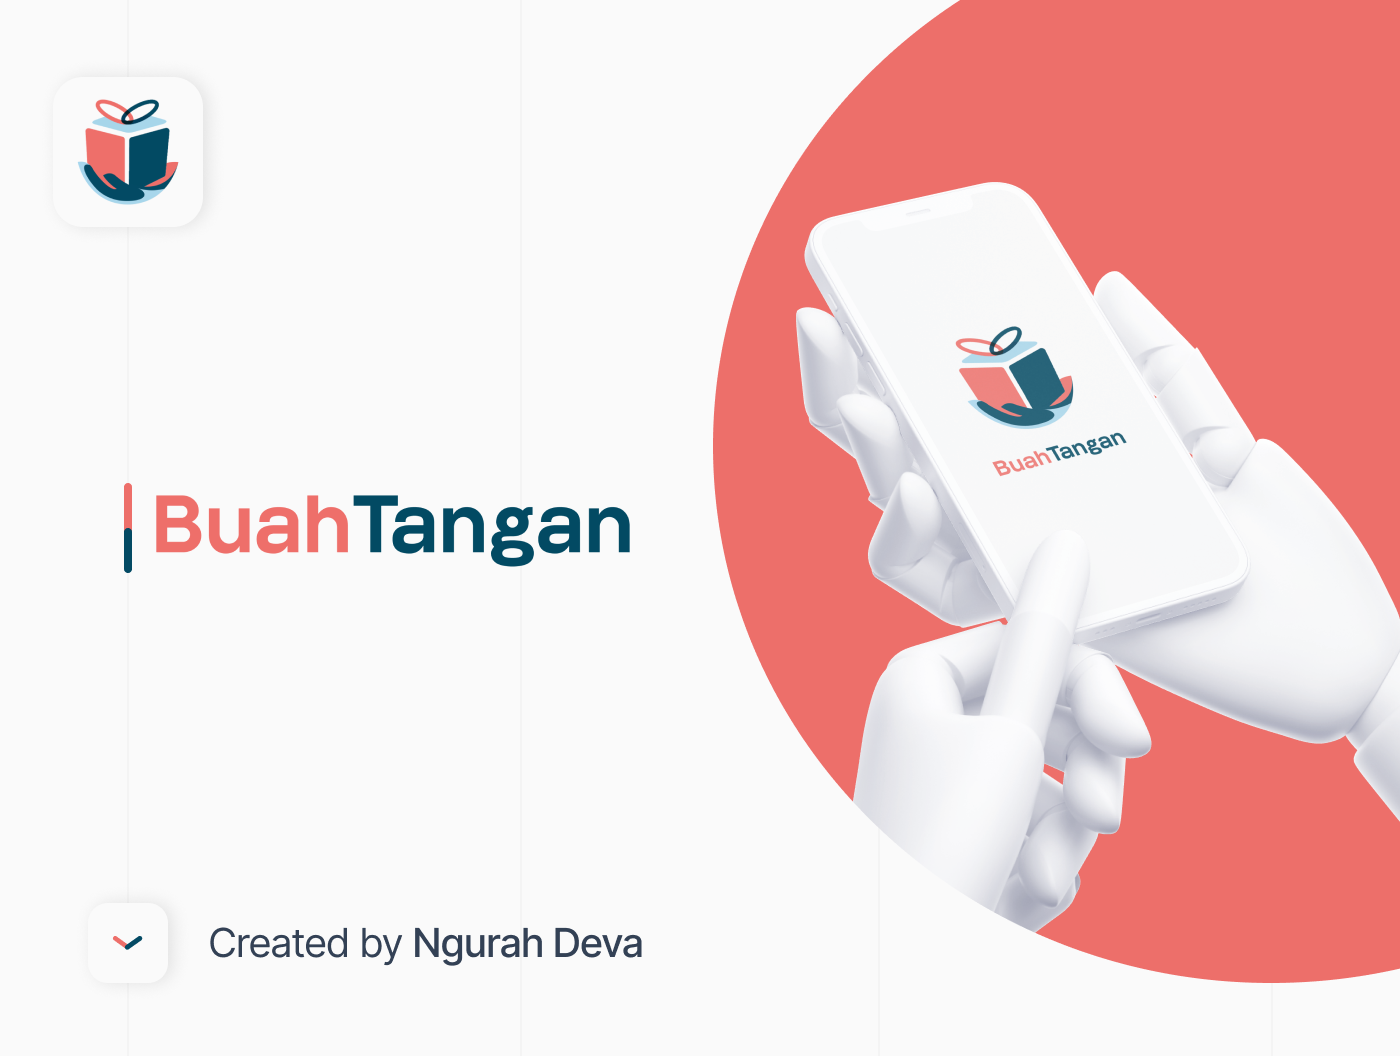
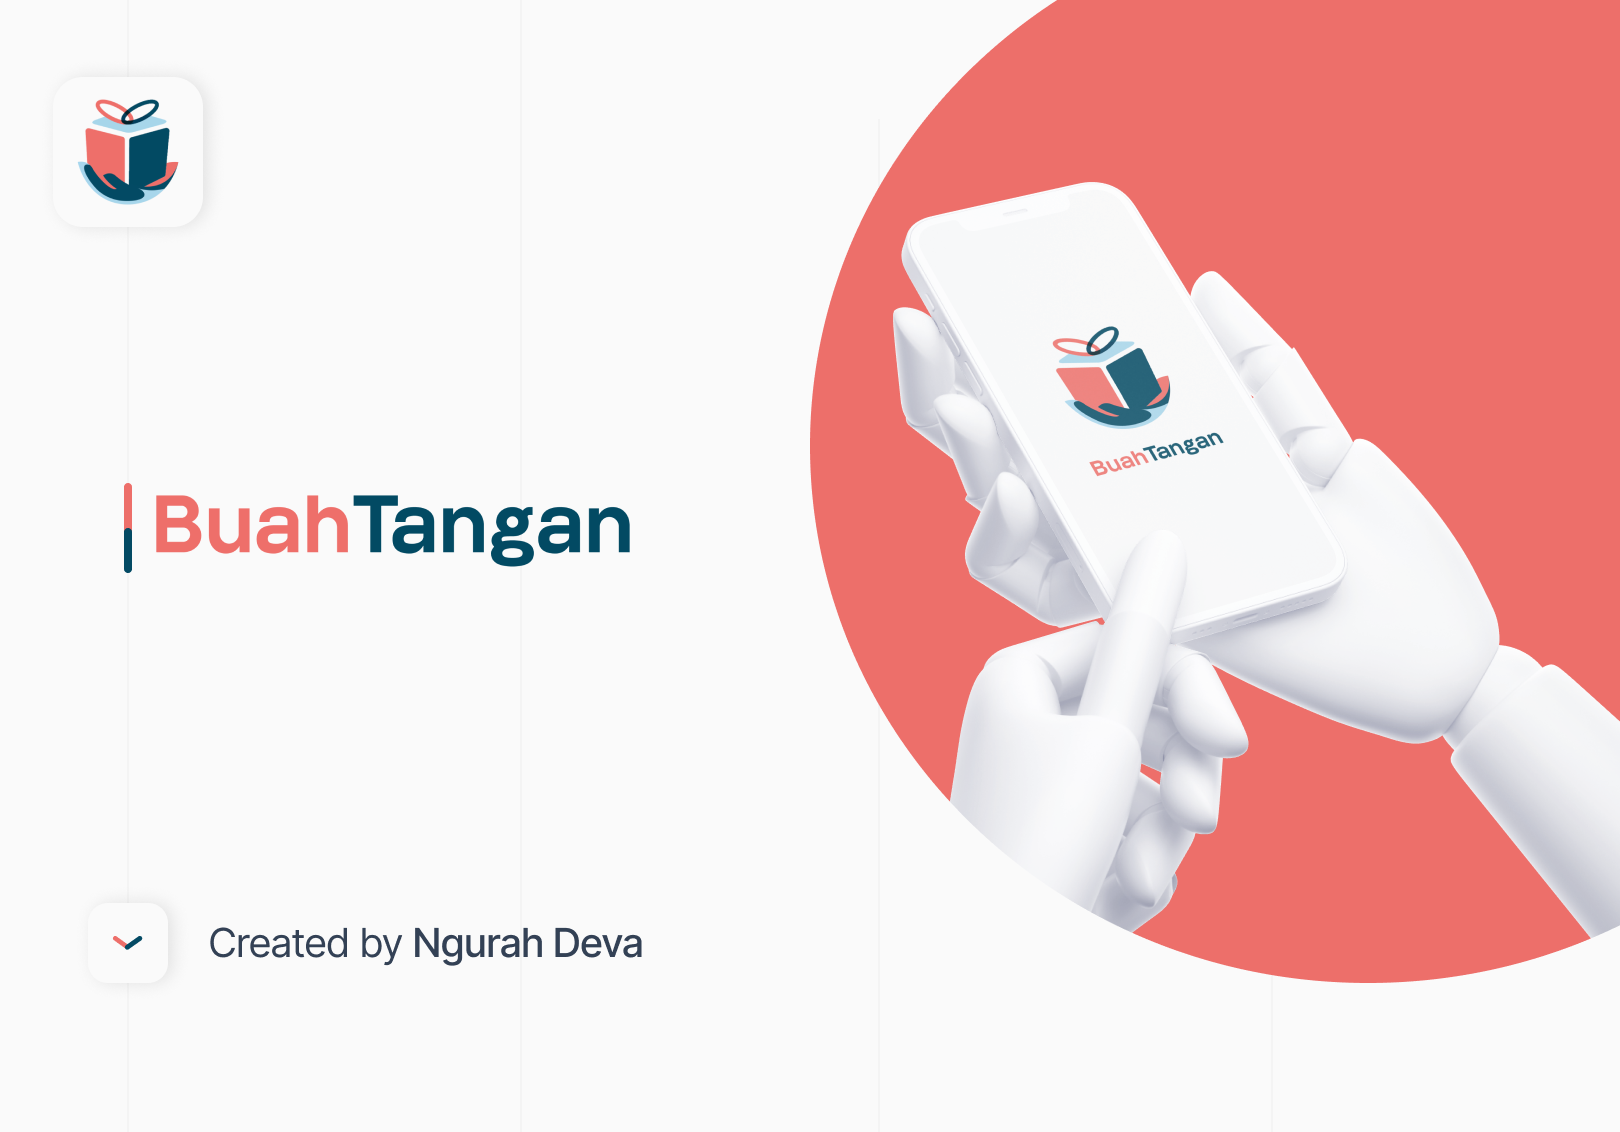
Update BuahTangan Detail

diff --git a/lib/values/images.dart b/lib/values/images.dart
@@ -197,6 +197,19 @@ class ImagePath {
   static const String TEXT_LOGO = "$imageDir/text-logo.png";
 
   // A-Dev Projects
+  static const String BUAHTANGAN_COVER = "$rahdevaProjectsDir/buahtangan/buahtangan-cover.png";
+  static const String BUAHTANGAN_COVER_DETAIL = "$rahdevaProjectsDir/buahtangan/buahtangan-cover-detail.png";
+  static const String BUAHTANGAN_1 = "$rahdevaProjectsDir/buahtangan/buahtangan-1.png";
+  static const String BUAHTANGAN_2 = "$rahdevaProjectsDir/buahtangan/buahtangan-2.png";
+  static const String BUAHTANGAN_3 = "$rahdevaProjectsDir/buahtangan/buahtangan-3.png";
+  static const String BUAHTANGAN_4 = "$rahdevaProjectsDir/buahtangan/buahtangan-4.png";
+  static const String BUAHTANGAN_5 = "$rahdevaProjectsDir/buahtangan/buahtangan-5.png";
+  static const String BUAHTANGAN_6 = "$rahdevaProjectsDir/buahtangan/buahtangan-6.png";
+  static const String BUAHTANGAN_7 = "$rahdevaProjectsDir/buahtangan/buahtangan-7.png";
+  static const String BUAHTANGAN_8 = "$rahdevaProjectsDir/buahtangan/buahtangan-8.png";
+  static const String BUAHTANGAN_9 = "$rahdevaProjectsDir/buahtangan/buahtangan-9.png";
+  static const String BUAHTANGAN_10 = "$rahdevaProjectsDir/buahtangan/buahtangan-10.png";
+
   static const String PLANTIST_COVER = "$rahdevaProjectsDir/plantist/plantist_cover.png";
   static const String PLANTIST_1 = "$rahdevaProjectsDir/plantist/plantist_1.png";
   static const String PLANTIST_2 = "$rahdevaProjectsDir/plantist/plantist_2.png";

diff --git a/lib/values/data.dart b/lib/values/data.dart
@@ -736,17 +736,23 @@ class Projects {
     category: StringConst.BUAHTANGAN_CATEGORY,
     primaryColor: AppColors.buahTangan,
     platform: StringConst.BUAHTANGAN_PLATFORM,
-    image: ImagePath.OUTFITR_COVER,
-    coverUrl: ImagePath.OUTFITR_1,
+    image: ImagePath.BUAHTANGAN_COVER,
+    coverUrl: ImagePath.BUAHTANGAN_COVER_DETAIL,
     portfolioDescription: StringConst.BUAHTANGAN_DETAIL,
     navTitleColor: AppColors.buahTanganNavTitle,
     navSelectedTitleColor: AppColors.buahTanganSelectedNavTitle,
     appLogoColor: AppColors.buahTanganAppLogo,
     projectAssets: [
-      ImagePath.OUTFITR_2,
-      ImagePath.OUTFITR_4,
-      ImagePath.OUTFITR_5,
-      ImagePath.OUTFITR_6,
+      ImagePath.BUAHTANGAN_1,
+      ImagePath.BUAHTANGAN_2,
+      ImagePath.BUAHTANGAN_3,
+      ImagePath.BUAHTANGAN_4,
+      ImagePath.BUAHTANGAN_5,
+      ImagePath.BUAHTANGAN_6,
+      ImagePath.BUAHTANGAN_7,
+      ImagePath.BUAHTANGAN_8,
+      ImagePath.BUAHTANGAN_9,
+      ImagePath.BUAHTANGAN_10,
     ],
     isPublic: true,
     technologyUsed: StringConst.FLUTTER,
